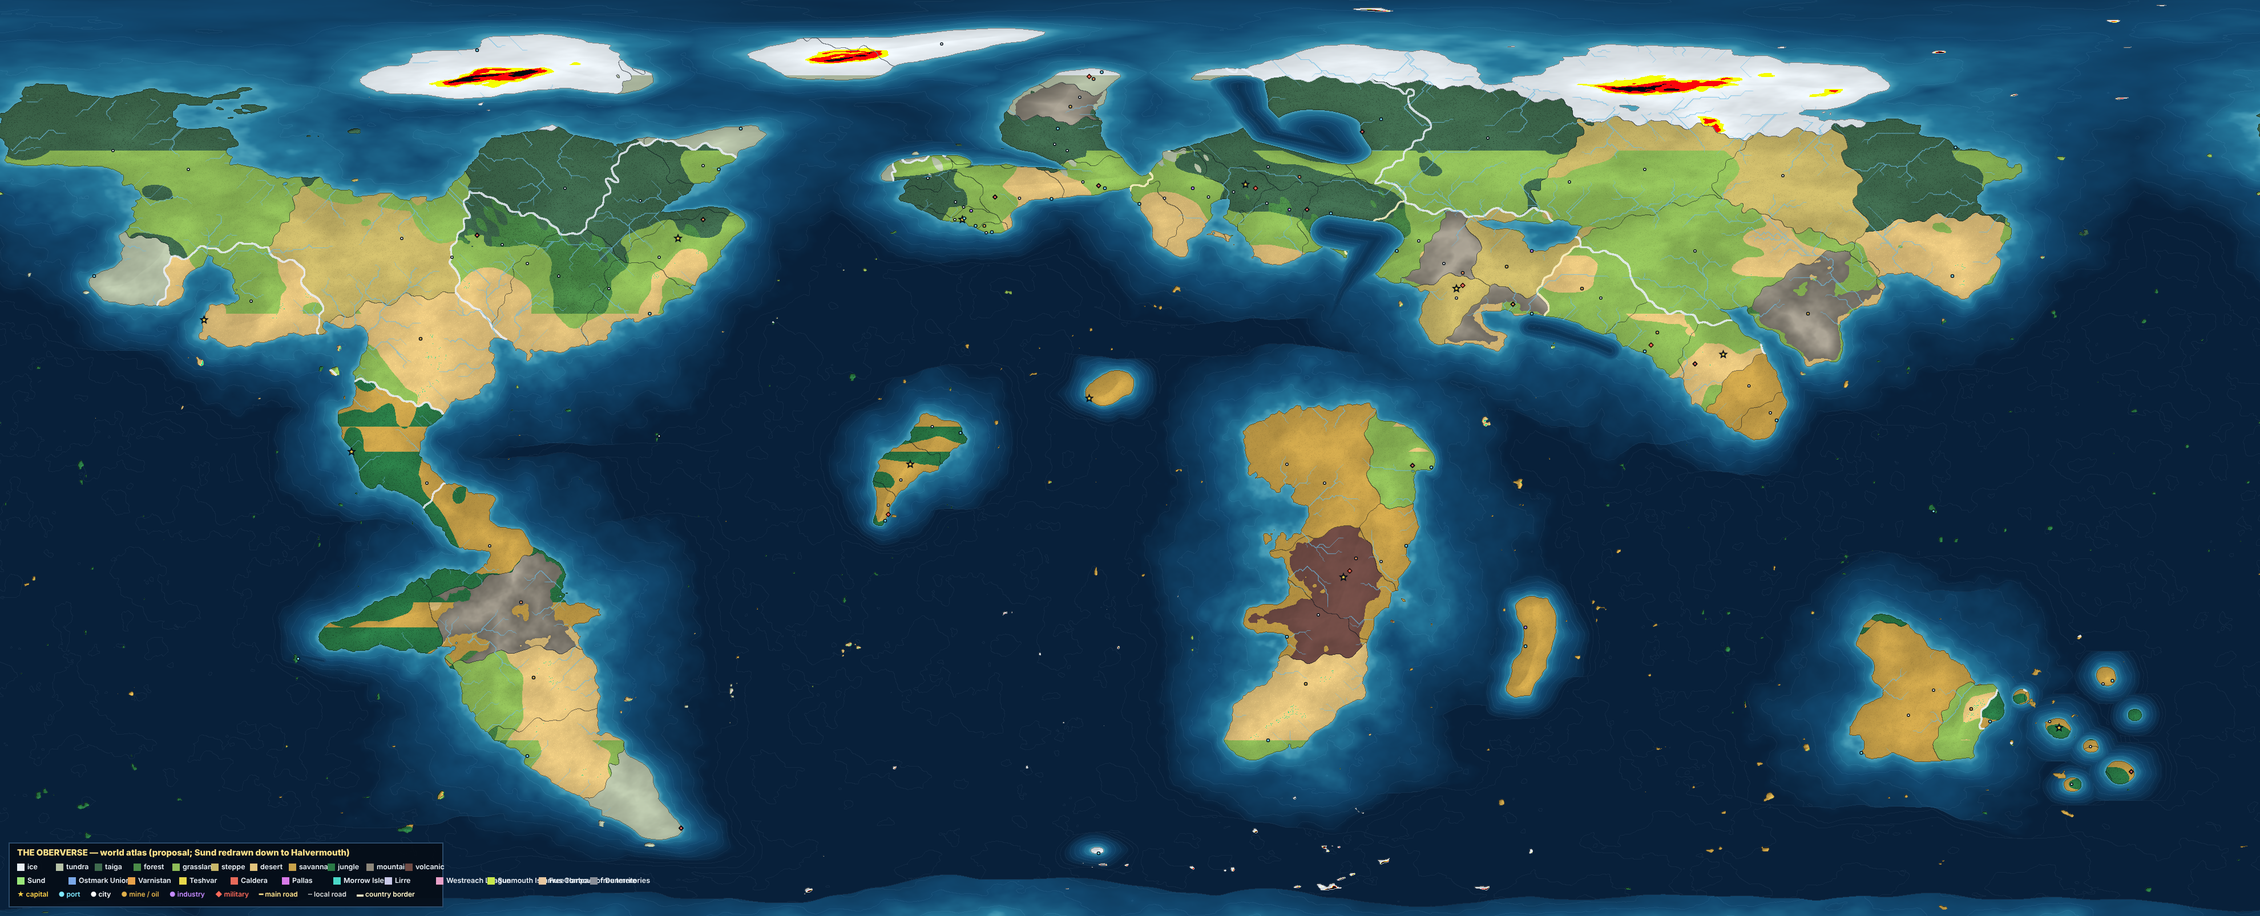
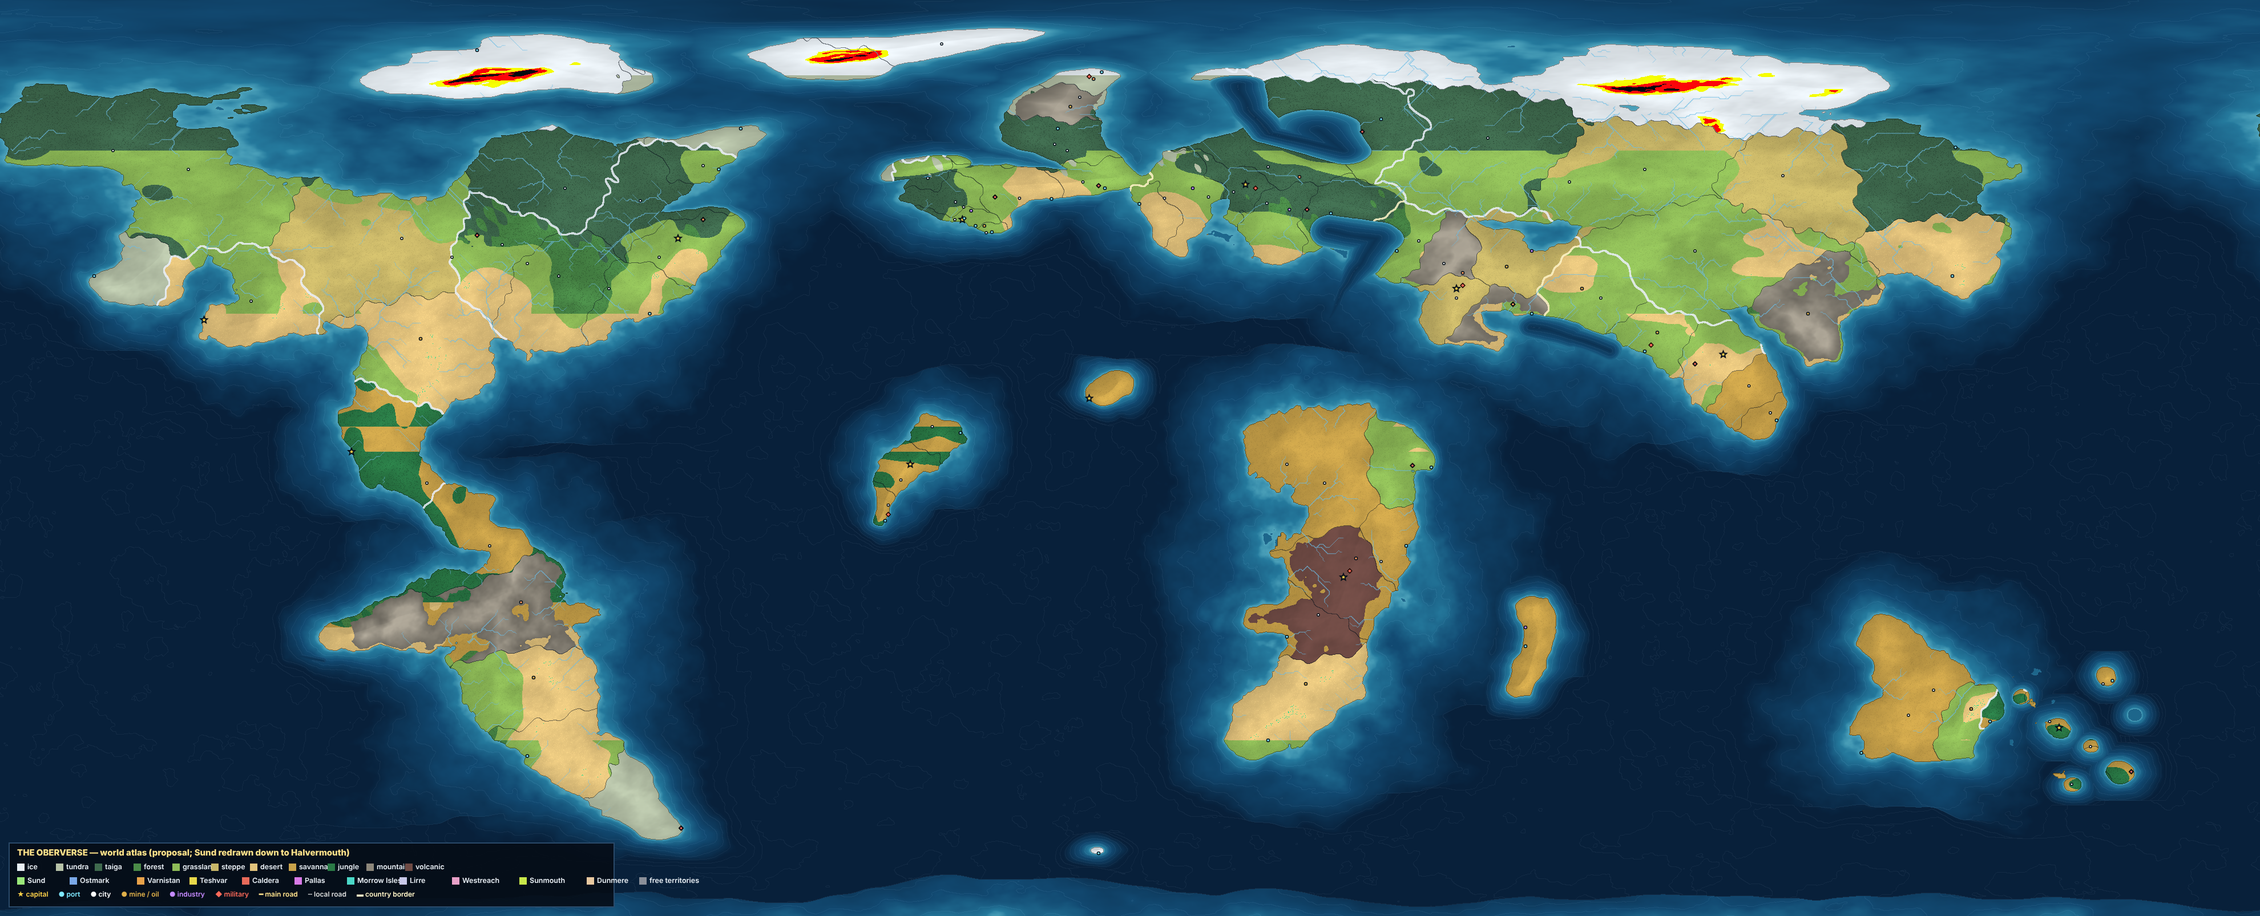
Atlas: clear the open ocean of lone islands and noise archipelagos
The atlas pictures no longer show the scatter of tiny islands: land pieces under 15 half-degree
cells are removed unless a port stands on them (229 pieces of land become 29). The Lantern Keys,
Spice Isles and Marrow Reefs regions are dropped (76 regions, 130 places). Docs updated, including
the note that port_marrow now needs a real island in the Atlas release. Plans only; no game file
changed.

Claude-Session: https://claude.ai/code/session_01TDGC6Q79idfz2CwS4VYJ4q

Changed region(s): [[0.0311, 0.9029, 0.3106, 0.9963], [0.1242, 0.6538, 0.2174, 0.7161], [0.7765, 0.2491, 0.8076, 0.2802]]

diff --git a/docs/WORLD_ATLAS_PROPOSAL.md b/docs/WORLD_ATLAS_PROPOSAL.md
@@ -16,7 +16,7 @@ Labels were kept thin and few on purpose: the world view names only countries an
 ## 2. How it was made (and why it is honest)
 
 - **It is the game's own world.** The coastlines are the game's `elevation()` function in `src/world/geography.js`, sampled **per pixel** (no scaling of the half-degree grid, so coasts are sharp). Mountains, lowlands, shallows and sea depth come from the same function.
-- **One change to the world**: you chose to redraw Sund so Halvermouth is its capital. That is a single added chain of land, the **Hald Reach**: `[[53, -6, 2.2], [52.5, -12, 2.1], [51.5, -19, 2.3], [52, -27, 3.4]]` in the `LAND` list. It joins Sund's southern tip to the home island. Nothing else in the geography changes.
+- **Two changes to the world.** (1) **A clear ocean** (your request after the first atlas): I removed the game's "scatter of lone islands in the open ocean" and the noise-made archipelagos (Spice Isles, Lantern Keys, Marrow Reefs, Ice Teeth), and any land piece under 15 half-degree cells unless a port stands on it. That took the world from **229 separate pieces of land to 29**. The Morrow Isles keep their islands, and the two ports on rocks (Southwind Isle and the Morrow harbours) keep theirs. (2) You chose to redraw Sund so Halvermouth is its capital. That is a single added chain of land, the **Hald Reach**: `[[53, -6, 2.2], [52.5, -12, 2.1], [51.5, -19, 2.3], [52, -27, 3.4]]` in the `LAND` list. It joins Sund's southern tip to the home island. Nothing else in the geography changes.
 - **States** are a weighted nearest-seed cut of the land (a seed per state, a weight for how large it should be, a gentle warp so borders are not circles). They are *data*: each state has an id that will never change, and its seed can be moved by hand.
 - **Biomes** (eleven: ice, tundra, taiga, forest, grassland, steppe, desert, savanna, jungle, mountain, volcanic) come from the game's own climate function (`biome()`), height and relief, with a state's character where it matters (Teshvar is desert, Caldera is volcanic). Latitude bands are wobbled so there are no straight lines.
 - **Rivers** are computed by a priority-flood on the same terrain (every land cell drains to a coast); **roads** join each place to its state's hub and the hubs of a country, only across dry land; the faint dots are **unlabelled villages** placed on fertile land. All three are generated, deterministic, and can be cut or replaced by hand.
@@ -25,7 +25,7 @@ Labels were kept thin and few on purpose: the world view names only countries an
 ## 3. What I found that you should know
 
 - **The home island is small** and Sund is now one long island chain: about 2,600 km from Kingsfjord in the north to Halvermouth in the south-west. The capital is at the far end of its country (the king lives in the north, so that is fitting).
-- **Two archipelagos are almost empty**: the Lantern Keys have **4** land cells and the Spice Isles **22** at the game's resolution (the Morrow Isles are fine). The atlas places a state on each; the first atlas release should raise their island density so they are real places, or draw them as explicit islands.
+- **The ocean is now clear, and four places lost their land.** The Lantern Keys, the Spice Isles and the Marrow Reefs were only specks; their regions are removed from the atlas (three fewer regions). The port **Marrow Strait** (`port_marrow`) now sits at sea, 4° from the nearest land, and the Atlas release must give it a real island (or move the port). The game's own `geography.js` still has the scatter; the Atlas release would remove it there too, which moves some coastlines near ports, so the ports test needs a listed edit.
 - **Sund's east tip is a short sea crossing from Ostmark's coast.** I have not yet checked that the strait is navigable by the sea-route code; that is a stage-1 test.
 - **The western continent has one country (Lirre) and a great deal of free land.** That is deliberate: it is the mercenary frontier (see below).
 - **Halvermouth's own ports** (Mill Road Docks, Lanternside Quay, Gullwing Point) are marked `local` and have no country today. In the new atlas they belong to Sund.
@@ -40,13 +40,13 @@ Eleven countries: the eight the game already has, plus **three small ones promot
 
 | State | Main biomes | What it is for | Places |
 | --- | --- | --- | --- |
-| **Halvermouth Crown District** | grassland 82%, taiga 16% | The capital: the city, the Crown Quarter, the Yards, the docks, Lanternside | Halvermouth (capital); Lanternside (port); Westbrook (city); Mill Road Docks (port); Ober Fields (mine / oil) |
+| **Halvermouth Crown District** | grassland 83%, taiga 17% | The capital: the city, the Crown Quarter, the Yards, the docks, Lanternside | Halvermouth (capital); Lanternside (port); Westbrook (city); Mill Road Docks (port); Ober Fields (mine / oil) |
 | **Lariat Downs** | taiga 65%, grassland 35% | Farm country, Starling Flats aerospace park | Lariat (city); Starling Flats (industry / research); Chuckie's Mills (city) |
 | **Gullwing Coast** | grassland 88%, desert 12% | Southern headland and fishing coast | Gullwing Point (port); Southmere (city) |
-| **Hald Reach** | grassland 52%, desert 47% | The narrow neck of land joining the capital to the north: rail, fog, and the national base | Haldwick (city); Brine End (port); Fort Gullcrest (base) |
+| **Hald Reach** | grassland 52%, desert 48% | The narrow neck of land joining the capital to the north: rail, fog, and the national base | Haldwick (city); Brine End (port); Fort Gullcrest (base) |
 | **Thornmonth Isle** | grassland 49%, taiga 43% | A rock off the capital with a lighthouse and a reputation | Thornmonth (city) |
 | **Sundholm** | grassland 76%, desert 21% | Royal Sund: the harbour, the royal yacht, the fleet | Sund Harbour (port); Sundholm (city); Royal Sund Naval Station (base) |
-| **Middle Fjords** | taiga 85%, grassland 15% | Fjord towns and herring | Fjell (city); Norrby (port); Lindqvist (city) |
+| **Middle Fjords** | taiga 84%, grassland 16% | Fjord towns and herring | Fjell (city); Norrby (port); Lindqvist (city) |
 | **Skarn Highlands** | mountain 86%, tundra 12% | Granite, mines and the old pass | Skarn (mine / oil); Vik (city) |
 | **Kingsfjord** | tundra 65%, ice 35% | The boy king's castle; the fishing fleet reviewed every Monday | Kingsfjord (port); Kingsfjord Castle (fort / pass) |
 
@@ -57,11 +57,11 @@ Eleven countries: the eight the game already has, plus **three small ones promot
 | State | Main biomes | What it is for | Places |
 | --- | --- | --- | --- |
 | **Westmark** | desert 82%, grassland 18% | Gate province: the great port, seven colours of crane | Ostmark Gate (port); Brandtburg (city) |
-| **Brandtland** | grassland 45%, desert 39% | Industry belt: Brandt turbines and canals | Brandt (industry / research); Kessel (city) |
-| **Hartmann March** | taiga 85%, grassland 12% | Federal province and the capital | Hartmannsburg (capital); Falkenau (city) |
+| **Brandtland** | grassland 46%, desert 38% | Industry belt: Brandt turbines and canals | Brandt (industry / research); Kessel (city) |
+| **Hartmann March** | taiga 86%, grassland 12% | Federal province and the capital | Hartmannsburg (capital); Falkenau (city) |
 | **Kesslerau** | grassland 48%, taiga 27% | Steel and the arms works | Kessler Works (industry / research); Rheinbrück (city) |
 | **Rheinholt** | taiga 79%, grassland 21% | Forest province: timber and paper | Rheinholt (city); Falken Pass (fort / pass) |
-| **Falkenmark** | taiga 78%, grassland 16% | The southern marches: the Halden shore and the Varn frontier | Halden Roads (port); Falkenhorst Air Base (base) |
+| **Falkenmark** | taiga 79%, grassland 15% | The southern marches: the Halden shore and the Varn frontier | Halden Roads (port); Falkenhorst Air Base (base) |
 | **Seventh Province** | taiga 83%, grassland 17% | Grey ships, grey sheds, the northern fleet | Seventh Province Naval Yard (base); Grey Harbour (port) |
 
 ### Varnistan
@@ -97,7 +97,7 @@ Eleven countries: the eight the game already has, plus **three small ones promot
 | **Crater Province** | volcanic 81%, savanna 19% | Built on a volcano; the capital is a cone | Calderon (capital); Ember Gap (fort / pass) |
 | **Caldera Bay Coast** | savanna 100% | The warm, suspiciously warm, harbour | Caldera Bay (port); Salto (city) |
 | **Northern Mesa** | savanna 100% | Plateau farms and the Verdan highlands | Mesa Verdan (city); Corvane (city) |
-| **The Horn** | grassland 97%, desert 3% | The long eastern horn; a naval post on a baked headland | Horn Landing (port); Horn Naval Post (base) |
+| **The Horn** | grassland 98%, desert 2% | The long eastern horn; a naval post on a baked headland | Horn Landing (port); Horn Naval Post (base) |
 | **Ashport Coast** | volcanic 71%, savanna 29% | Everything is grey, including the tea | Ashport (port); Greyfield (city) |
 | **Saltlands** | desert 90%, grassland 10% | Salt flats and the southern railway | Saltmarch (mine / oil); Southcape (port) |
 
@@ -108,8 +108,8 @@ Eleven countries: the eight the game already has, plus **three small ones promot
 | State | Main biomes | What it is for | Places |
 | --- | --- | --- | --- |
 | **Free Harbour Coast** | savanna 51%, jungle 49% | Several flags, one crane, many questions | Pallas Free Harbour (port); Aegir (city) |
-| **Pallas Midlands** | savanna 58%, jungle 42% | Hills, coffee and the seat of government | Thessal (capital); Ionis (city) |
-| **Coup Cove** | savanna 78%, jungle 22% | Named after the last government. And the one before. | Coup Cove (port); Krios (city) |
+| **Pallas Midlands** | savanna 59%, jungle 41% | Hills, coffee and the seat of government | Thessal (capital); Ionis (city) |
+| **Coup Cove** | savanna 81%, jungle 19% | Named after the last government. And the one before. | Coup Cove (port); Krios (city) |
 
 ### Morrow Isles
 
@@ -117,10 +117,10 @@ Eleven countries: the eight the game already has, plus **three small ones promot
 
 | State | Main biomes | What it is for | Places |
 | --- | --- | --- | --- |
-| **Main Isle** | savanna 57%, jungle 43% | Morrow Town and the League chamber (two hundred chairs) | Morrow Town (capital); Palmer (city) |
-| **Western Harbour** | jungle 75%, savanna 25% | The one big harbour and one very tired harbour master | Morrow Main Harbour (port) |
+| **Main Isle** | savanna 55%, jungle 45% | Morrow Town and the League chamber (two hundred chairs) | Morrow Town (capital); Palmer (city) |
+| **Western Harbour** | jungle 76%, savanna 24% | The one big harbour and one very tired harbour master | Morrow Main Harbour (port) |
 | **Isle of Navies** | jungle 58%, savanna 42% | Every island's navy moors here | Isle of Navies (base) |
-| **Reef Islands** | savanna 71%, jungle 29% | Turquoise water and a smuggling museum | Reef Town (port); Coralline (city) |
+| **Reef Islands** | savanna 100% | Turquoise water and a smuggling museum | Reef Town (port); Coralline (city) |
 | **Southern Tides** | savanna 64%, jungle 36% | Kauri islands and the outer fishing fleets | Kauri (city); Tideline (city) |
 
 ### Grand Duchy of Lirre
@@ -142,7 +142,7 @@ Eleven countries: the eight the game already has, plus **three small ones promot
 
 | State | Main biomes | What it is for | Places |
 | --- | --- | --- | --- |
-| **Westreach Free Coast** | desert 60%, grassland 40% | A league of free ports; everything costs more | Westreach (capital); Brass Mile (city) |
+| **Westreach Free Coast** | desert 59%, grassland 41% | A league of free ports; everything costs more | Westreach (capital); Brass Mile (city) |
 
 ### Sunmouth Isthmus Compact
 
@@ -162,7 +162,7 @@ Eleven countries: the eight the game already has, plus **three small ones promot
 
 ### Free Territories
 
-*Free ports, leagues, clans and nobody-in-particular: no embassy, no army, plenty of contracts.* Capital: —. Population: scattered. 30 regions.
+*Free ports, leagues, clans and nobody-in-particular: no embassy, no army, plenty of contracts.* Capital: —. Population: scattered. 27 regions.
 
 | State | Main biomes | What it is for | Places |
 | --- | --- | --- | --- |
@@ -171,17 +171,15 @@ Eleven countries: the eight the game already has, plus **three small ones promot
 | **High Prairies** | steppe 83%, grassland 17% | Open ranch country; a compact of towns | Broadacre (city); Harrow Cross (city) |
 | **Mere Counties** | taiga 100% | Lakes and logging | Meremouth (city) |
 | **Redrock Flats** | desert 88%, grassland 12% | Desert country on the way to the isthmus | Redrock (mine / oil) |
-| **Equator Coast** | savanna 71%, jungle 29% | Banana republic-in-waiting; the shipping lanes' southern door | Quito Bay (city) |
-| **Great Cordillera** | mountain 72%, savanna 17% | The long range down the west of the continent | High Pass (fort / pass) |
+| **Equator Coast** | savanna 68%, jungle 32% | Banana republic-in-waiting; the shipping lanes' southern door | Quito Bay (city) |
+| **Great Cordillera** | mountain 74%, savanna 13% | The long range down the west of the continent | High Pass (fort / pass) |
 | **Saltpan Coast** | desert 57%, grassland 43% | Dry coast and nitrate mines | Saltpan (mine / oil) |
 | **Cape Low** | desert 81%, grassland 17% | The bottom of the continent: storms, ropes and stories | Cape Low (port) |
 | **Greyhook Fjords** | tundra 100% | A cold quiet anchorage nobody admits to owning | Greyhook (base) |
-| **Marrow Reefs** | jungle 80%, savanna 20% | Reefs, a strait and a lighthouse keeper who charges by the look | Marrow Strait (port) |
 | **Oldmoor Coast** | tundra 100% | Fog-bound; every boat is called Mary | Oldmoor (port) |
 | **Frostbay** | ice 100% | Open three months a year | Frostbay (port) |
 | **Ice Teeth** | ice 71%, tundra 29% | Rocks and seals | — |
 | **Greenmoor** | ice 100% | An arctic island; the northern edge of the sea lanes | Greenmoor (city) |
-| **Lantern Keys** | jungle 94%, savanna 6% | A scatter of keys and smugglers' coves (the world's sparsest archipelago: see the plan) | Lantern Key (city) |
 | **Windfen Plains** | grassland 52%, taiga 48% | The northern plains' west: fen and railway | Windfen (city) |
 | **Hollow Steppe** | grassland 70%, steppe 30% | The great grass: clans, herds and caravans | Hollow Well (city); Caravan Cross (city) |
 | **Yellowfen** | steppe 96%, grassland 4% | Marsh and river towns | Yellowfen (city) |
@@ -190,7 +188,6 @@ Eleven countries: the eight the game already has, plus **three small ones promot
 | **Dustmark Basin** | grassland 83%, desert 17% | The great dry basin between Teshvar and the steppe | Dustmark (city) |
 | **Cinder Hills** | mountain 78%, grassland 16% | Old volcanoes, new mines | Cinder Mine (mine / oil) |
 | **Frost Barrens** | ice 100% | Arctic island; empty, which is its point | — |
-| **Spice Isles** | jungle 84%, savanna 16% | Two thousand islands and four thousand opinions about nutmeg (today a handful of rocks: see the plan) | Spice Quay (port) |
 | **Coral Coast** | savanna 100% | The south-eastern continent: coral on one side, dust on the other | Coral Sound (port); Redland (city); Bluewater (city) |
 | **Southeastern Outback** | grassland 81%, desert 19% | Red interior; mining and long straight roads | Outback Junction (mine / oil) |
 | **Meridian Free Zone** | savanna 100% | A gleaming free port on the meridian line; dock robots with union representation | Meridian Free Port (port); Applied Sciences (industry / research) |
@@ -231,7 +228,7 @@ Eleven countries: the eight the game already has, plus **three small ones promot
 | 6 | **The Oil Belt** | Teshvar / Morrow Isles | sea + air | Bai-Dun Golden Coast, Western Harbour, Main Isle | Tankers against two hundred navies. |
 | 7 | **The Free Marches** | Free Territories | contracts | Greyfen Marches, High Prairies, Hollow Steppe, Equator Coast, Southeastern Outback | No flag, no army: where small contracts and mercenary work begin. |
 
-Totals: 79 states and regions, 133 named places, 17 military sites, 7 theatres.
+Totals: 76 states and regions, 130 named places, 17 military sites, 7 theatres.
 
 ## 5. How the rest of the game would use it
 
@@ -244,7 +241,7 @@ Totals: 79 states and regions, 133 named places, 17 military sites, 7 theatres.
 
 ## 6. The atlas release (v0.92.0)
 
-What it would contain: the one added chain of land; `src/content/atlas.js` (countries, states, places, military sites, theatres); a `state` on every port and a Sund country for the home-island ports; **three new country records** in the arms content (Westreach, Sunmouth, Dunmere: budget, income, wants, aggression, rivals) with their ports moved from "free" to their country; an **Atlas** page on the arms terminal's globe and Fleet Command (state borders, names, cities, biomes on hover); documentation. **No other gameplay changes.**
+What it would contain: the one added chain of land, the removal of the lone-island scatter and the four noise archipelagos from `geography.js`, and an island for Marrow Strait; `src/content/atlas.js` (countries, states, places, military sites, theatres); a `state` on every port and a Sund country for the home-island ports; **three new country records** in the arms content (Westreach, Sunmouth, Dunmere: budget, income, wants, aggression, rivals) with their ports moved from "free" to their country; an **Atlas** page on the arms terminal's globe and Fleet Command (state borders, names, cities, biomes on hover); documentation. **No other gameplay changes.**
 
 Knock-on effects of three more countries, so nothing surprises you: the arms market gains three buyers; generated companies gain three home countries; the foreign bond list gains three issuers (and Sund's merges into Halvermouth's); the geo events can involve them. Tests that count "eight countries" will be edited and listed. I will keep the three small (low budget and income) so the arms trade does not change character.
 
@@ -255,4 +252,4 @@ Tests: every seed and place is on land; every state has land; every country has 
 1. **Is Sund's shape right?** It is now a long chain. You may prefer the Hald Reach shorter or the home island nearer Sund.
 2. **Are Westreach, Sunmouth and Dunmere the right three?** I chose them as the biggest free ports. Others that fit: the Meridian Free Zone (a gleaming free port on its own island), Cape Low, Coral Sound.
 3. **Names and extra states**: the data is one file (`atlas.mjs`).
-4. **How detailed in-game?** The Atlas page can start at state level (79 regions) with cities, and add rivers and roads later. Do you want rivers and roads in the game at all, or only as this mock-up's decoration?
+4. **How detailed in-game?** The Atlas page can start at state level (76 regions) with cities, and add rivers and roads later. Do you want rivers and roads in the game at all, or only as this mock-up's decoration?

diff --git a/docs/PROPOSAL_WAR.md b/docs/PROPOSAL_WAR.md
@@ -126,7 +126,7 @@ v0.92.0 is the shared World Atlas (see the politics plan). The war update's 14 s
 
 | Release | Stage | What exists after it | Main new tests |
 | --- | --- | --- | --- |
-| **v0.92.0** | Atlas (shared) | The redrawn world, 79 states and regions, 133 places, biomes, theatres as data; an Atlas page. | atlas validation; places on land; old saves load |
+| **v0.92.0** | Atlas (shared) | The redrawn world, 76 states and regions, 130 places, biomes, theatres as data; an Atlas page. | atlas validation; places on land; old saves load |
 | v0.107.0 | 1 Audit + skeleton | `world.military` with the consistency checker, **the damage gate and the base-protection flag with their tests**, a debug view. Nothing visible to play yet. | gate refuses every source before a coup; checker finds each kind of corruption |
 | v0.108.0 | 2 Places + construction | Fort Gullcrest (shell, gate, guards on patrol), Hollowmoor Lot, the staged facility blueprints in Mason's Os with progress, permits, cost, and repair. | map validation; paths; construction persistence |
 | v0.109.0 | 3 Company + state | Company identity (name, badge, colours), personnel records, inventories, facilities as state; the Military app. | persistence; government separate from the company |
@@ -161,7 +161,7 @@ Order against politics: **the Presidency update comes first** (v0.93 to v0.106),
 ## 11. Decisions I will take unless you say otherwise
 1. **The politics update goes first** (settled).
 2. **Sites**: the national base *Fort Gullcrest* on the Hald Reach north of Lariat; your lot *Hollowmoor Lot* south of the Yards. Both are their own region maps entered through a gate. (You may prefer other places.)
-3. **The free territories that stay free** (30 of the 79 regions) hold small contracts and the mercenary frontier; the three promoted countries are small and can be sides in wars and clients for contracts.
+3. **The free territories that stay free** (30 of the 76 regions) hold small contracts and the mercenary frontier; the three promoted countries are small and can be sides in wars and clients for contracts.
 4. **Soldiers are records; about 40 are drawn at once.**
 5. **Tactical battles use the same renderer with a higher camera.**
 6. **After a coup ends, protection is only restored by an explicit settlement; damage stays.**
